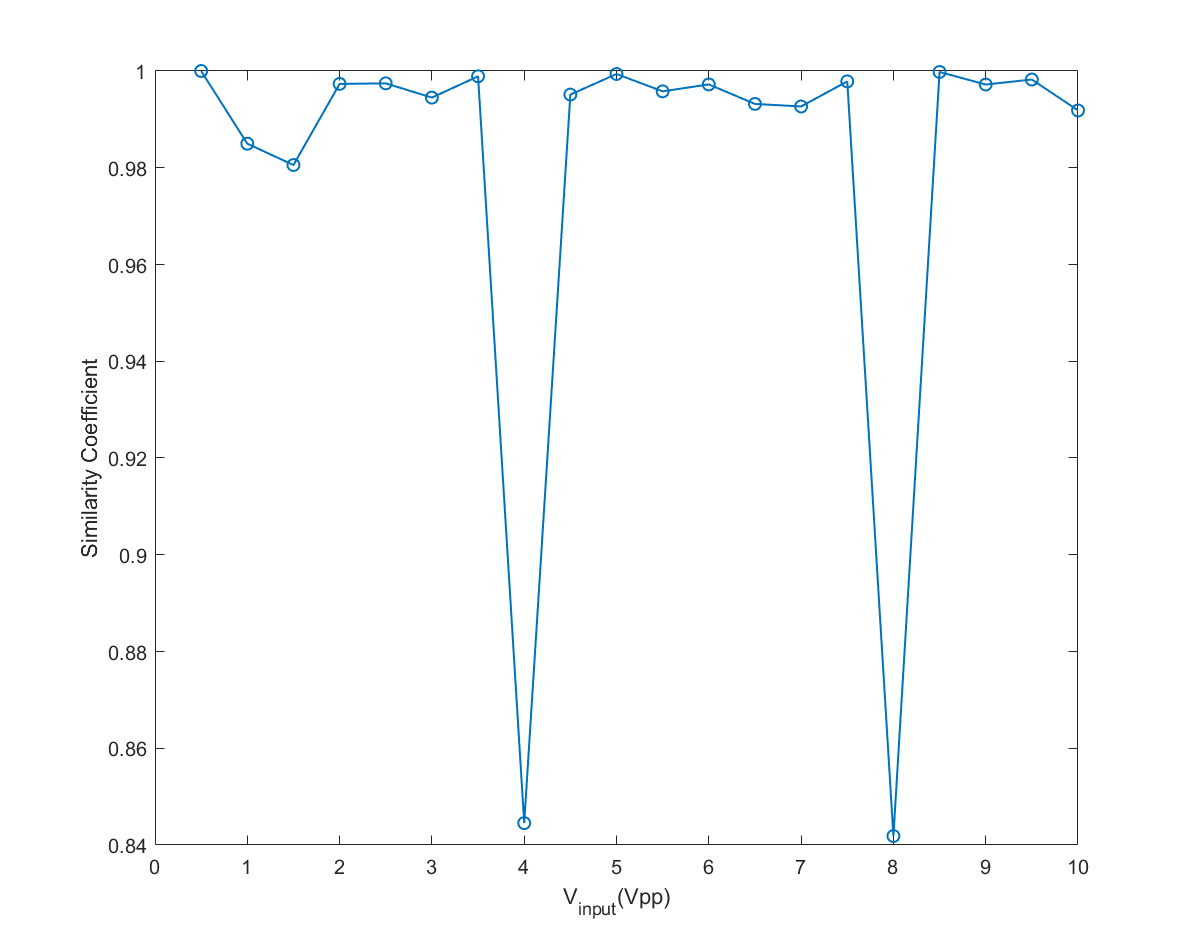
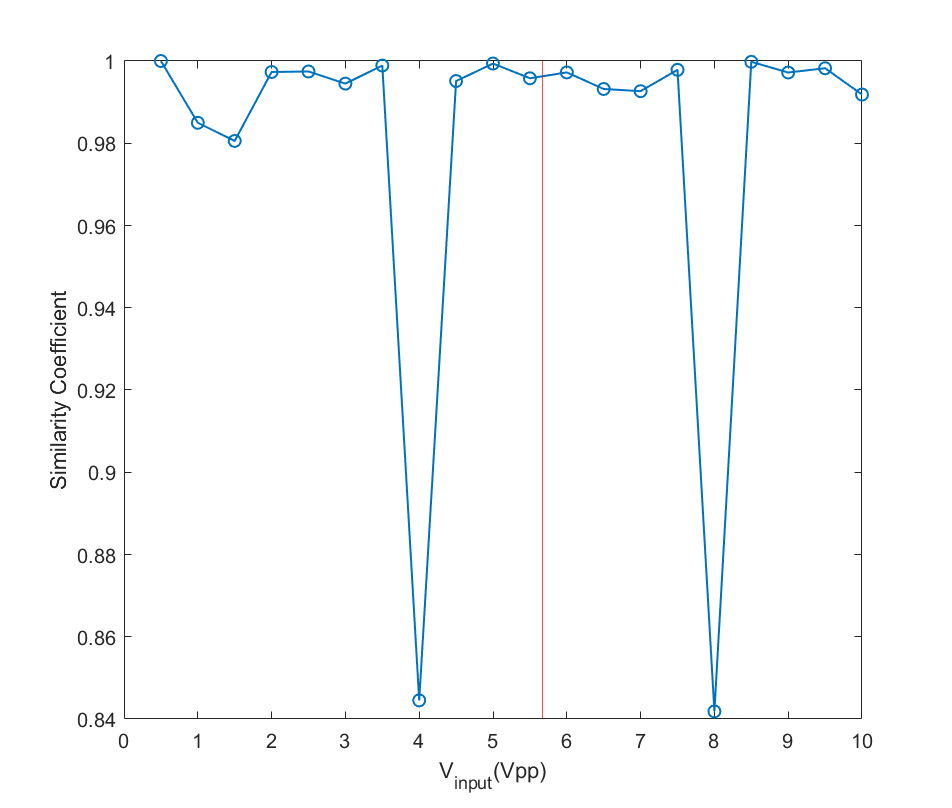
added cut-off method

diff --git a/acoustic/glass_3mm_nonlinearity_2/nonlinearity.m b/acoustic/glass_3mm_nonlinearity_2/nonlinearity.m
@@ -124,4 +124,10 @@ legend("2_{nd}", "Fit(k = " + slope + ")")
 
 subplot(3,1,3)
 plot(V_input.^3, Amp_harmonic(3,:),'-o'),xlabel("V_{input}^{3}(V^{3})"), ylabel("V_{3\omega}(V)"), legend("3_{rd}")
+
+%%% Add the cut-off index in the similarity figure to compare the 
+%%% reversibility
+
+figure(2)
+xline(V_input(index_cutoff), "r")
 %% Test the band-pass filter
